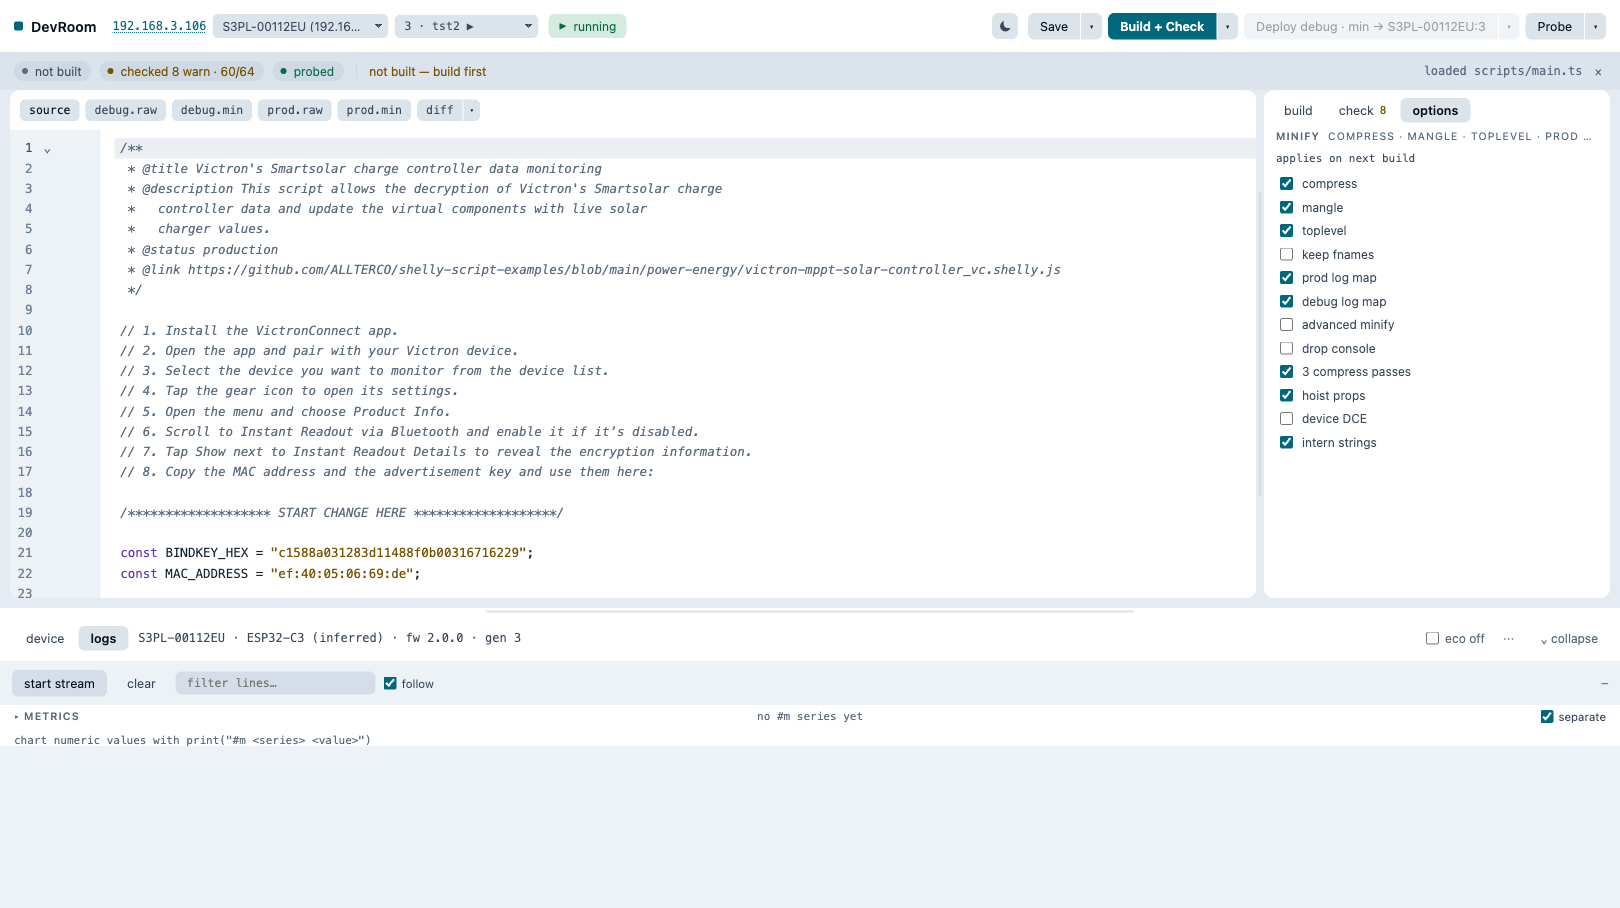
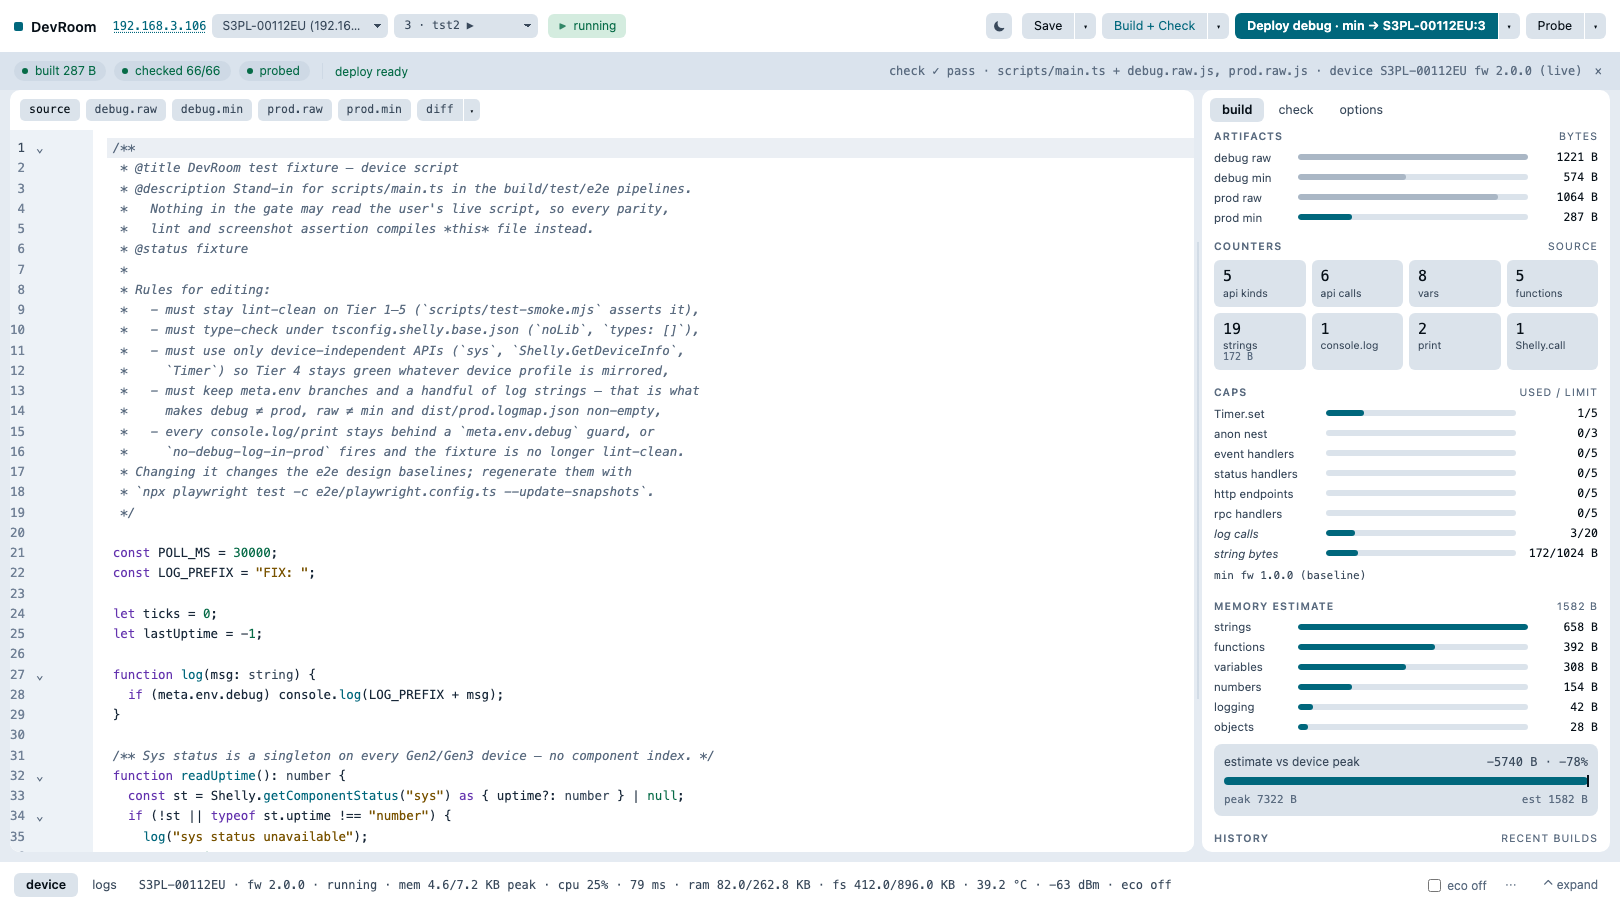
feat: theme-aware hero screenshot on docs site
Landing page now shows a light or dark hero shot matching the
visitor's active theme via useTheme(), instead of one static
light-only PNG. <picture> + prefers-color-scheme was rejected —
it can't see the header's theme toggle, only OS preference.
Both shots (1620x908) were retaken against a fixture workspace,
not the live scripts/main.ts, after a first attempt leaked a
real BLE bindkey and MAC address plus two syntax-error findings.

build-static.mjs now copies and verifies both PNGs into site/.

diff --git a/web/site/landing.tsx b/web/site/landing.tsx
@@ -18,6 +18,35 @@ import { Group } from "../ui/measure";
 import { useTheme } from "../shell/theme";
 import { repoUrl } from "./release";
 
+/**
+ * The hero screenshot, in the theme the visitor is actually looking at — a
+ * light shot of the app on a dark page (or the reverse) reads as a screenshot
+ * of some *other* program.
+ *
+ * Driven off `useTheme()` rather than a `<picture>` with a
+ * `prefers-color-scheme` `<source>`: `<picture>` only ever sees the OS
+ * preference, so it would ignore the header's theme toggle. Swapping `src`
+ * also means the browser fetches one image, not both — two ~250 KB PNGs, one
+ * of them `display: none`, is still two downloads.
+ *
+ * Both files are 1620×908; the box crops the bottom (see `.hero-shot` in
+ * site.css), which is why the dashboard rail sits high in the frame.
+ */
+function HeroShot() {
+  const [theme] = useTheme();
+  return (
+    <div class="hero-shot" style={{ aspectRatio: "1620 / 660" }}>
+      <img
+        src={theme === "dark" ? "./devroom-header-dark.png" : "./devroom-header.png"}
+        width={1620}
+        height={908}
+        alt="DevRoom's editor, build dashboard and device dock"
+        loading="eager"
+      />
+    </div>
+  );
+}
+
 export function SiteHeader() {
   const [theme, toggle] = useTheme();
   const next = theme === "dark" ? "light" : "dark";
@@ -109,15 +138,7 @@ export function Landing() {
               Download
             </a>
           </div>
-          <div class="hero-shot" style={{ aspectRatio: "1600 / 520" }}>
-            <img
-              src="./devroom-header.png"
-              width={1600}
-              height={520}
-              alt="DevRoom's editor, dashboard and device dock"
-              loading="eager"
-            />
-          </div>
+          <HeroShot />
         </section>
 
         <section class="features">
